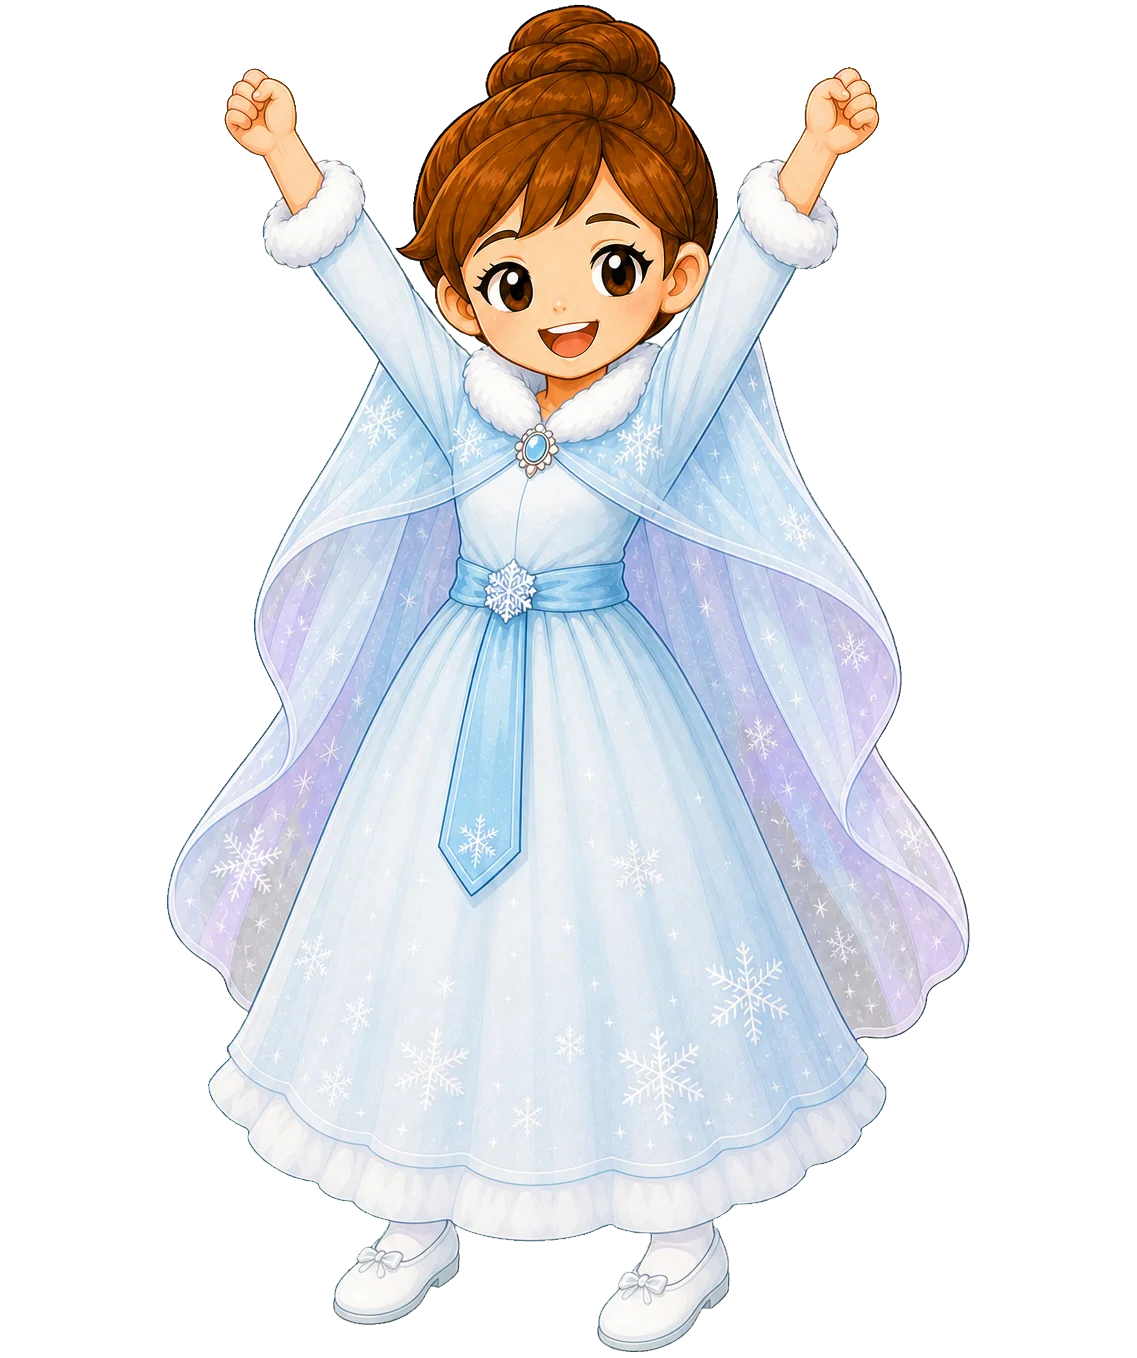
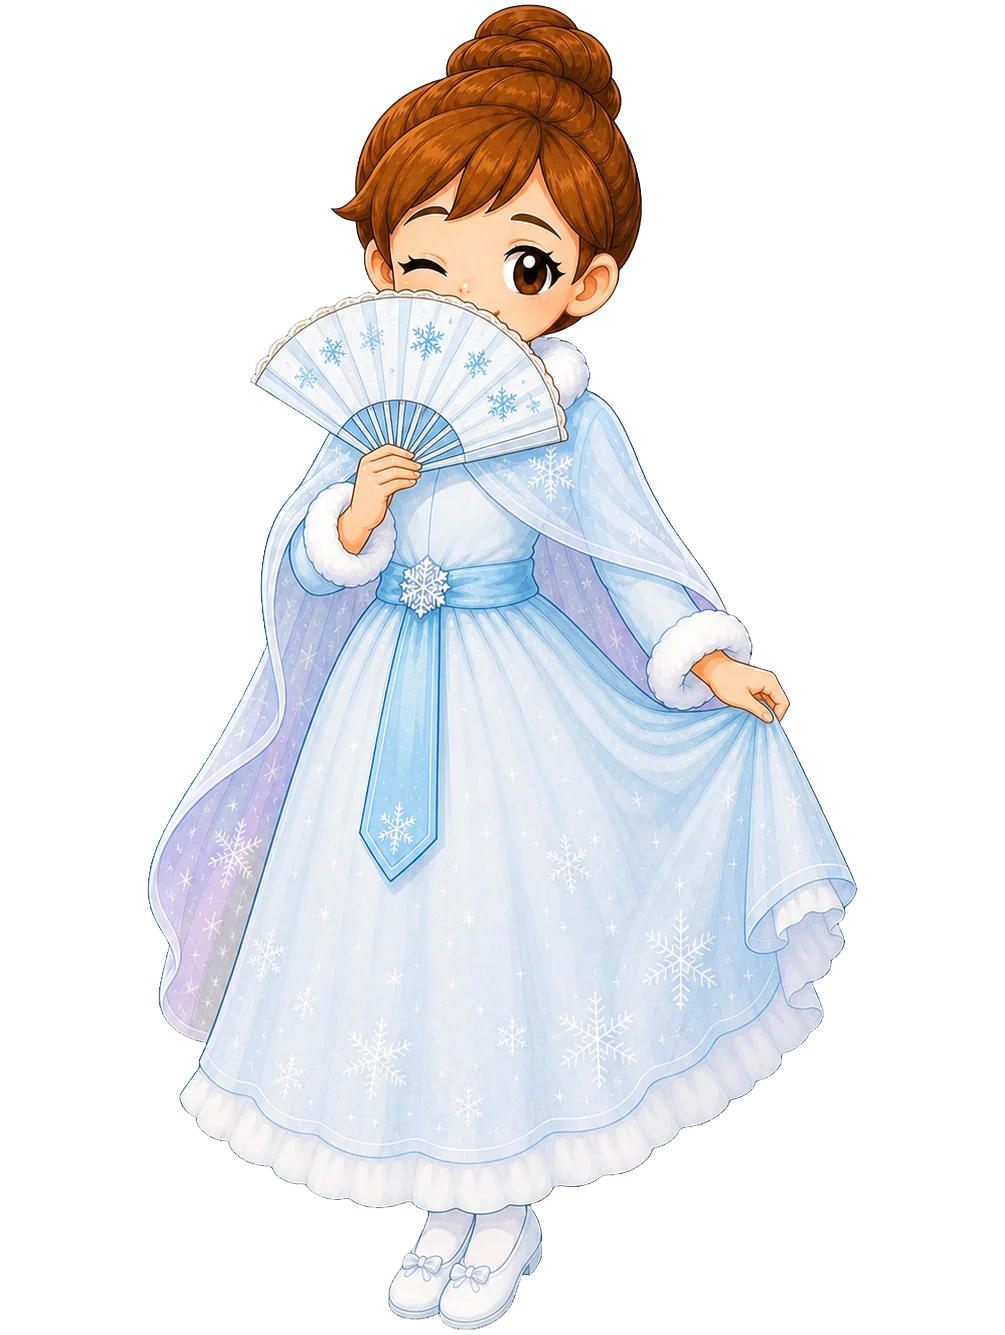
着替え第3弾：ぼうけんの ふく追加／スーツ→せいふく／女の子の勝利ポーズを男女で別に
- ぼうけんの ふく（key=rpg・3,000円・男女どちらも）を追加
  男の子＝赤い半そで＋かるい鎧（銀の胸あて・肩あて・手甲・すねあて）
  女の子＝赤い半そで（おへそ）＋短パン＋赤いスカーフ
- 「スーツ」を「せいふく」に改名（key/suffixは据え置き＝既存セーブと互換）
- 女の子の勝利ポーズが3着とも男の子と同じバンザイだったのを修正
  わふく＝袖をひらり／せいふく＝投げキッス／ゆきのドレス＝扇でウインク
- 検証：着替え112項目・回帰147項目 いずれもNG0

Claude-Session: https://claude.ai/code/session_01NAm7sdz8RqMdYHzxuUo5eB

Changed region(s): [[0.1542, 0.0, 0.8637, 1.0], [0.2468, 0.8292, 0.3393, 0.8906]]

diff --git a/play/index.html b/play/index.html
@@ -5877,12 +5877,17 @@ let heroChar='boy';
 const COSTUMES=[
   {key:'std',    name:'いつもの ふく', emoji:'👕', price:0,    suffix:'',        chars:'both', desc:'さいしょから きている ふく'},
   {key:'wafuku', name:'わふく',        emoji:'👘', price:2000, suffix:'-wafuku', chars:'both', desc:'おまつりみたいな きもの・はかま'},
-  {key:'suit',   name:'スーツ',        emoji:'🤵', price:8000, suffix:'-suit',   chars:'both', desc:'びしっと きまる フォーマル'},
+  /* 名前だけ「スーツ」→「せいふく」に変更（2026-07-26・準也さん＝絵が制服に見えるため）。
+     key と suffix は変えない＝これまでのセーブデータがそのまま使える */
+  {key:'suit',   name:'せいふく',      emoji:'👔', price:8000, suffix:'-suit',   chars:'both', desc:'びしっと きまる がっこうの ふく'},
   /* 第2弾（2026-07-25・準也さんの裁定＝うちゅうふくは男の子だけ／ゆきのドレスは女の子だけ・どちらも5,000円） */
   {key:'space',  name:'うちゅうふく',  emoji:'🚀', price:5000, suffix:'-space',  chars:'boy',  desc:'うちゅうに いけそうな しろい ふく'},
-  {key:'snow',   name:'ゆきのドレス',  emoji:'❄', price:5000, suffix:'-snow',   chars:'girl', desc:'ゆきの けっしょうが きらめく ドレス'}
+  {key:'snow',   name:'ゆきのドレス',  emoji:'❄', price:5000, suffix:'-snow',   chars:'girl', desc:'ゆきの けっしょうが きらめく ドレス'},
+  /* 第3弾（2026-07-26・ぼうけんの ふく＝男女どちらも着られる・3,000円）
+     準也さんの裁定で作り直し＝赤を主役にした、うごきやすい半そで短パン（マントなし） */
+  {key:'rpg',    name:'ぼうけんの ふく', emoji:'🗺', price:3000, suffix:'-rpg',   chars:'both', desc:'あかい はんそで で かるがると うごける'}
   /* 予定（絵ができたら1行ずつ足す・値段と割り当ては準也さんの裁定 7/25）：
-     RPGふう 3000円(both)／ロボヒーロー 5000円(boy)／ピンクのドレス 5000円(girl) */
+     ロボヒーロー 5000円(boy)／ピンクのドレス 5000円(girl) */
 ];
 /* 手直し(2026-07-25夜・準也さんの指摘)：ふくは「男の子・女の子べつべつ」に持つ。
    それまでは1着ぶん買うと、主人公を切り替えたときにもう片方も着られてしまっていた
@@ -14171,7 +14176,7 @@ function makeGradeStartSave(n){
     stationSceneSeen:(startZone>STAGE2_COUNT+1),   // 手直し_駅構内(7/25)：学年スタートも同じ基準で既見あつかい
     travelContinueSeen2:(startZone>STAGE3_COUNT+1), chubuHakaseSeen:(startZone>STAGE3_COUNT+1),
     /* 手直し_お金(7/25・準也さんの指示)：お金の単位が「円」になったので、テスト用の学年スタートの
-       所持金も実額にする。3年生以降＝20,000円（わふく2,000＋スーツ8,000＋αが買えて着替えを試せる）／
+       所持金も実額にする。3年生以降＝20,000円（わふく2,000＋せいふく8,000＋αが買えて着替えを試せる）／
        2年生＝10,000円。旧値の30は「コイン時代」の名残で、円では何も買えないため差し替え */
     coins:(n>=3?20000:10000), items:{genkidama:0,fue:0}
   };
